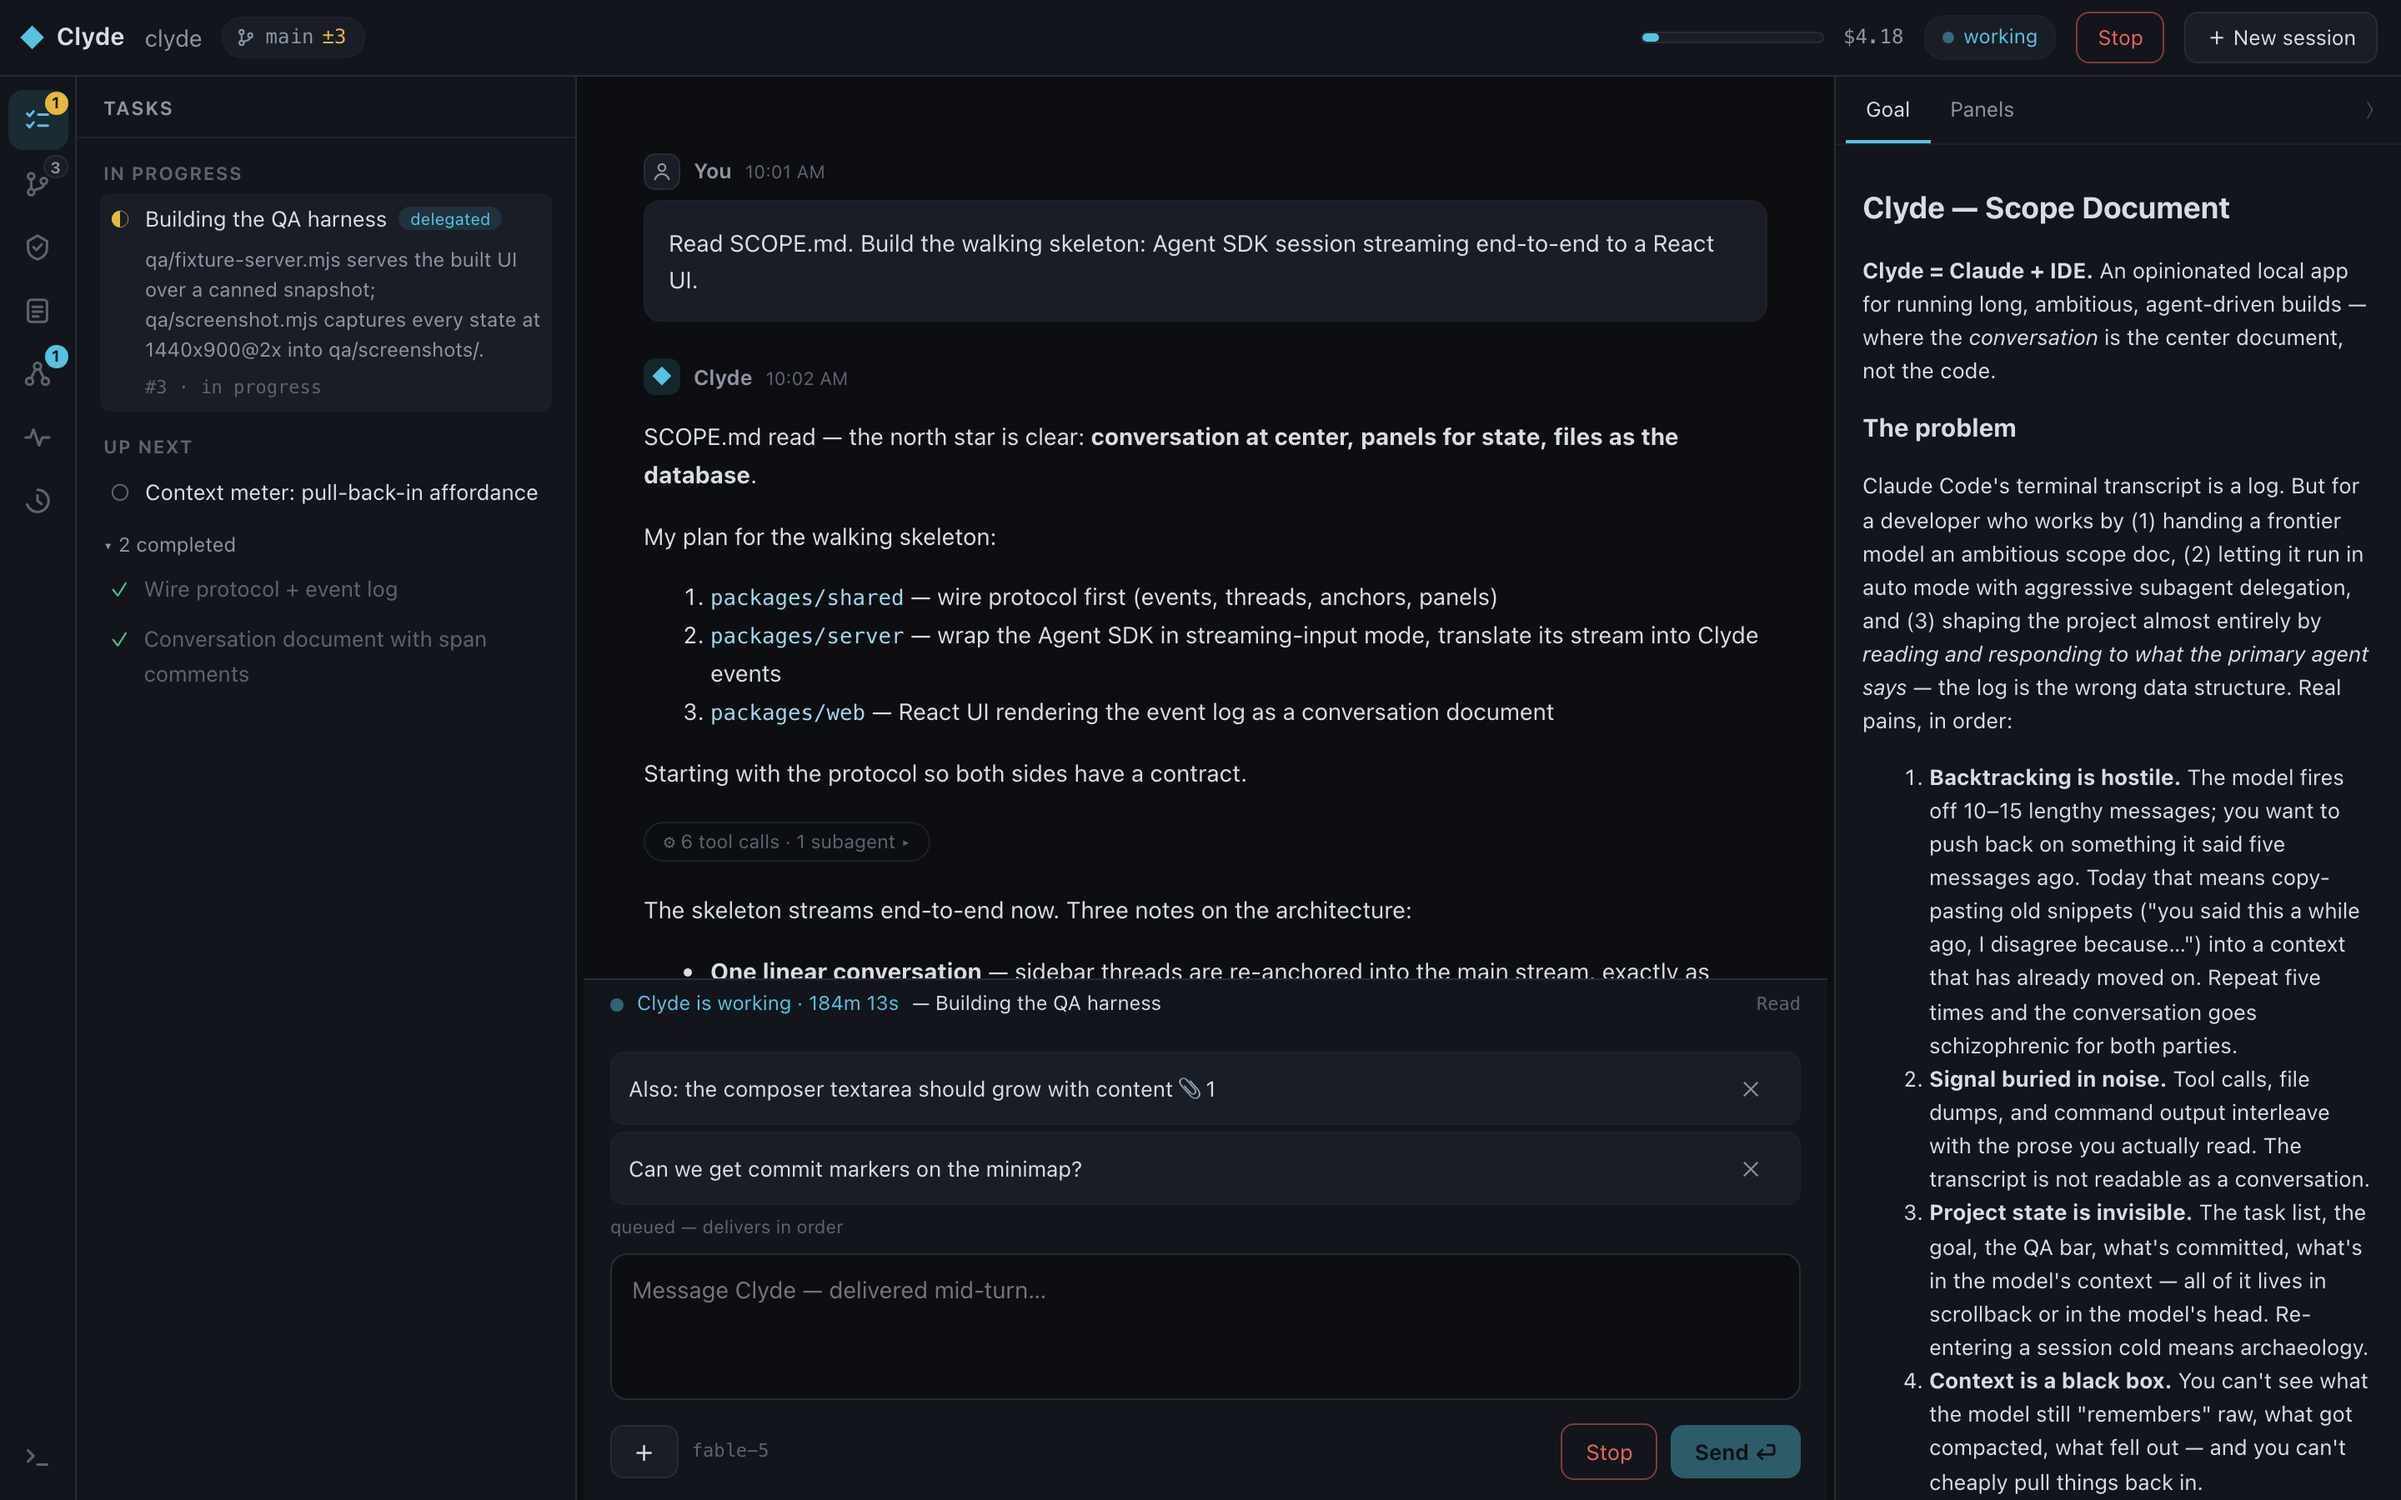
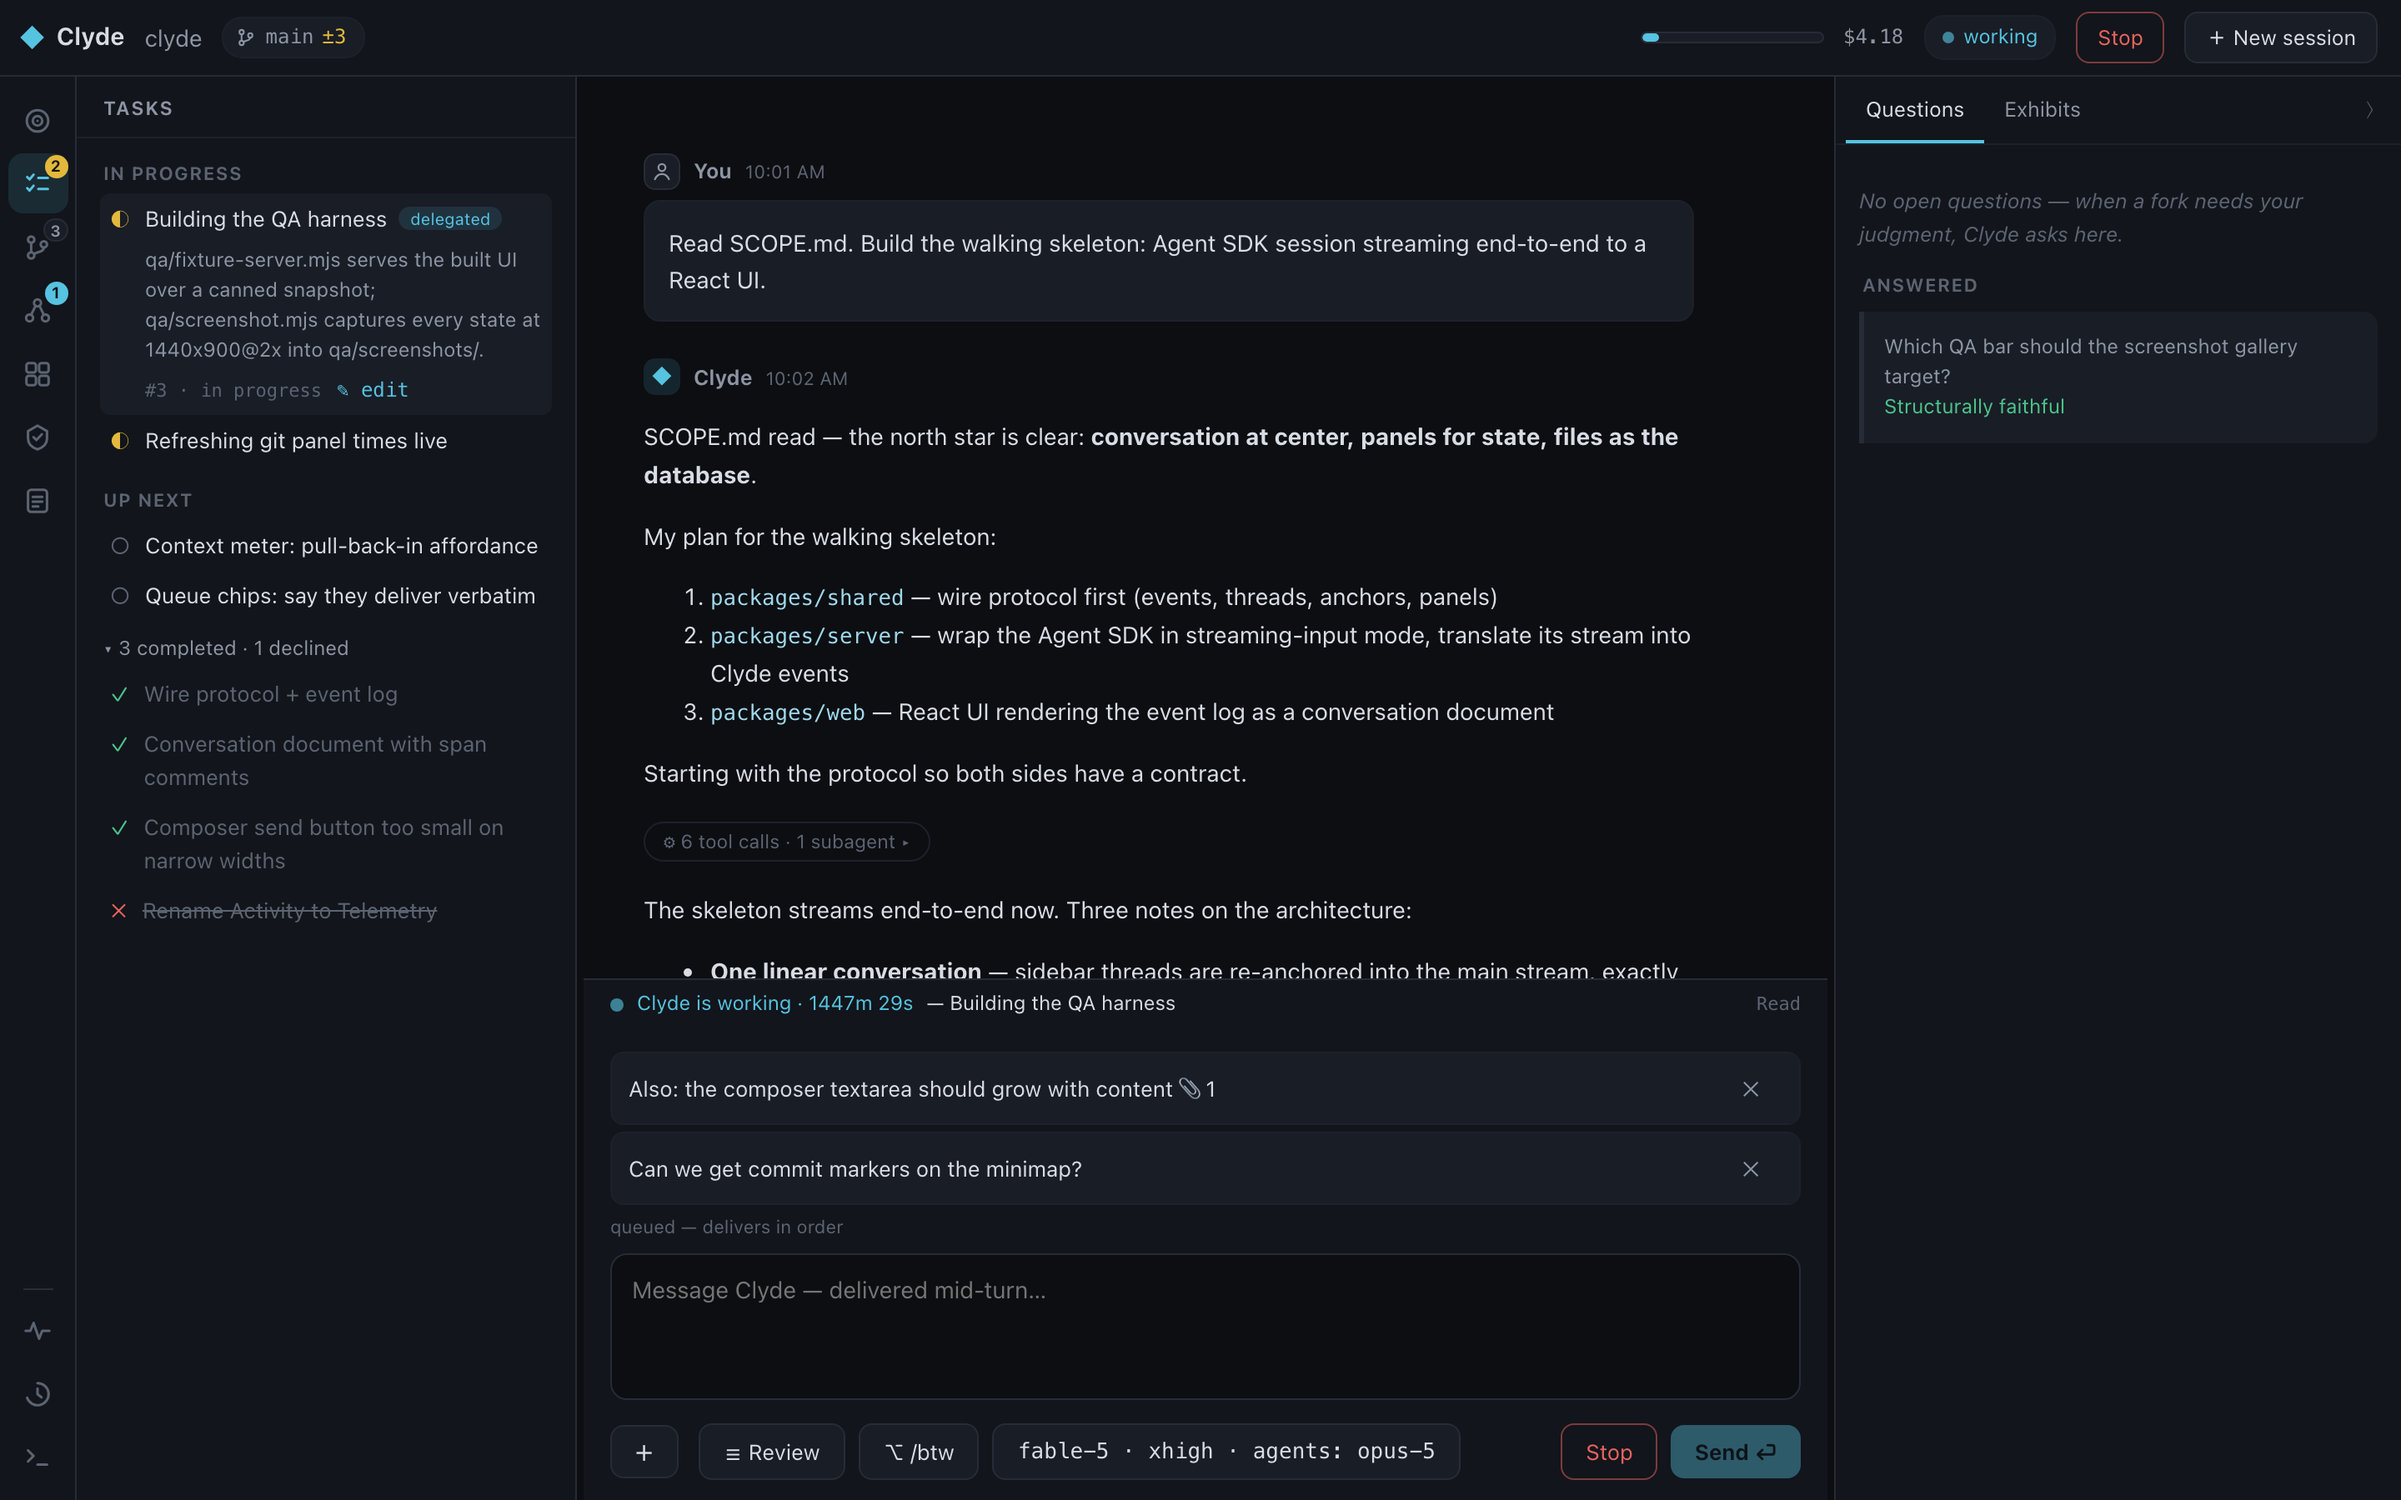
Correct the record (#37): true capture count, regenerated README screenshots
The suite has 39 deterministic captures +1 optional live shot - '42' was
never true; README and task details corrected (commit messages are
immutable history). All five docs/screenshots regenerated from the fixture
at the current UI via NEW qa/docs-shots.mjs (npm run docs:shots), so the
hero image now shows the attention workbench, /btw toggle, and subagent
model chip instead of contradicting the copy. Artifacts caption reworded
to match the left-rail reality.

diff --git a/README.md b/README.md
@@ -48,7 +48,7 @@ And the agent doesn't dump artifacts — it *authors representations*. Training 
 
 For the adversarial half, Clyde defines a **critic** agent type: read-only by construction, briefed with the goal, the diff, and the evidence, and tasked with finding reasons *not* to accept — it can re-run the tests but cannot fix a thing. The implementer makes the case; the critic challenges it; you judge. Completed tasks record the commit that closed them, exhibits record the task they gate, verdicts record both — so "why do we believe this is done?" has a traceable answer.
 
-![Agent-pushed QA artifacts in the workbench](docs/screenshots/qa-panels.png)
+![Agent-pushed evidence in the Artifacts rail — galleries, metrics, and representations the agent authored](docs/screenshots/qa-panels.png)
 
 ## Blab your feedback, get a checklist
 
@@ -117,7 +117,8 @@ One process = one project. Clyde finds or creates `.clyde/` there and serves the
 ### QA loop
 
 ```bash
-npm run qa:screens      # build + capture 42 deterministic UI states, with behavioral assertions
+npm run qa:screens      # build + capture 39 deterministic UI states (+1 live shot), with behavioral assertions
+npm run docs:shots      # regenerate the README screenshots from the same fixture — doc images can't drift
 npm run qa:backfill     # offline checks over resume/backfill/normalization
 node qa/live-drive.mjs  # drive a live session through the real UI: threads, commits,
                         # questions, model rotation, /btw asides, blocking exhibits
